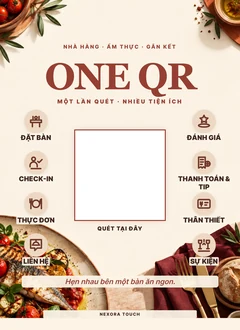
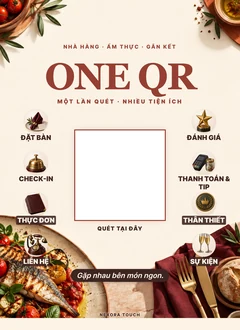
feat/1741_oneqr-template-customer
ONE QR - Template one qr customer

Thêm template one qr cho khách hàng nhiều ngành nghề.
Hiện tại chỉ mới có ngành Nail.

Replace line icons with generated photoreal object artwork in four bilingual Food & Drink templates. Improve label contrast over food imagery and preserve the QR print geometry.

Refs #1741

diff --git a/src/components/touchpoints/oneqr/oneQrArtworkCatalog.ts b/src/components/touchpoints/oneqr/oneQrArtworkCatalog.ts
@@ -32,12 +32,13 @@ function artwork(id: string, sourceWidth: number, height: number, x: number, y: 
 export function getOneQrArtworkBackgrounds(language: AppLanguage): OneQrArtworkBackground[] {
   return ONEQR_CONCEPTS.map<OneQrArtworkBackground>(concept => {
     const assetId = `${concept.id}-${language}`
+    const assetVersion = concept.industryId === 'food' ? 6 : 5
     return {
       id: concept.id,
       industryId: concept.industryId,
       assetId,
-      imageUrl: `${import.meta.env.BASE_URL}images/oneqr-templates/${assetId}.webp?v=5`,
-      thumbnailUrl: `${import.meta.env.BASE_URL}images/oneqr-templates/${assetId}-thumb.webp?v=5`,
+      imageUrl: `${import.meta.env.BASE_URL}images/oneqr-templates/${assetId}.webp?v=${assetVersion}`,
+      thumbnailUrl: `${import.meta.env.BASE_URL}images/oneqr-templates/${assetId}-thumb.webp?v=${assetVersion}`,
       qrBox: { x: 768 / 2400, y: 1320 / 3300, width: 864 / 2400, height: 864 / 3300 },
       qrScale: 1,
       pageSize: { widthPt: 576, heightPt: 792 },
